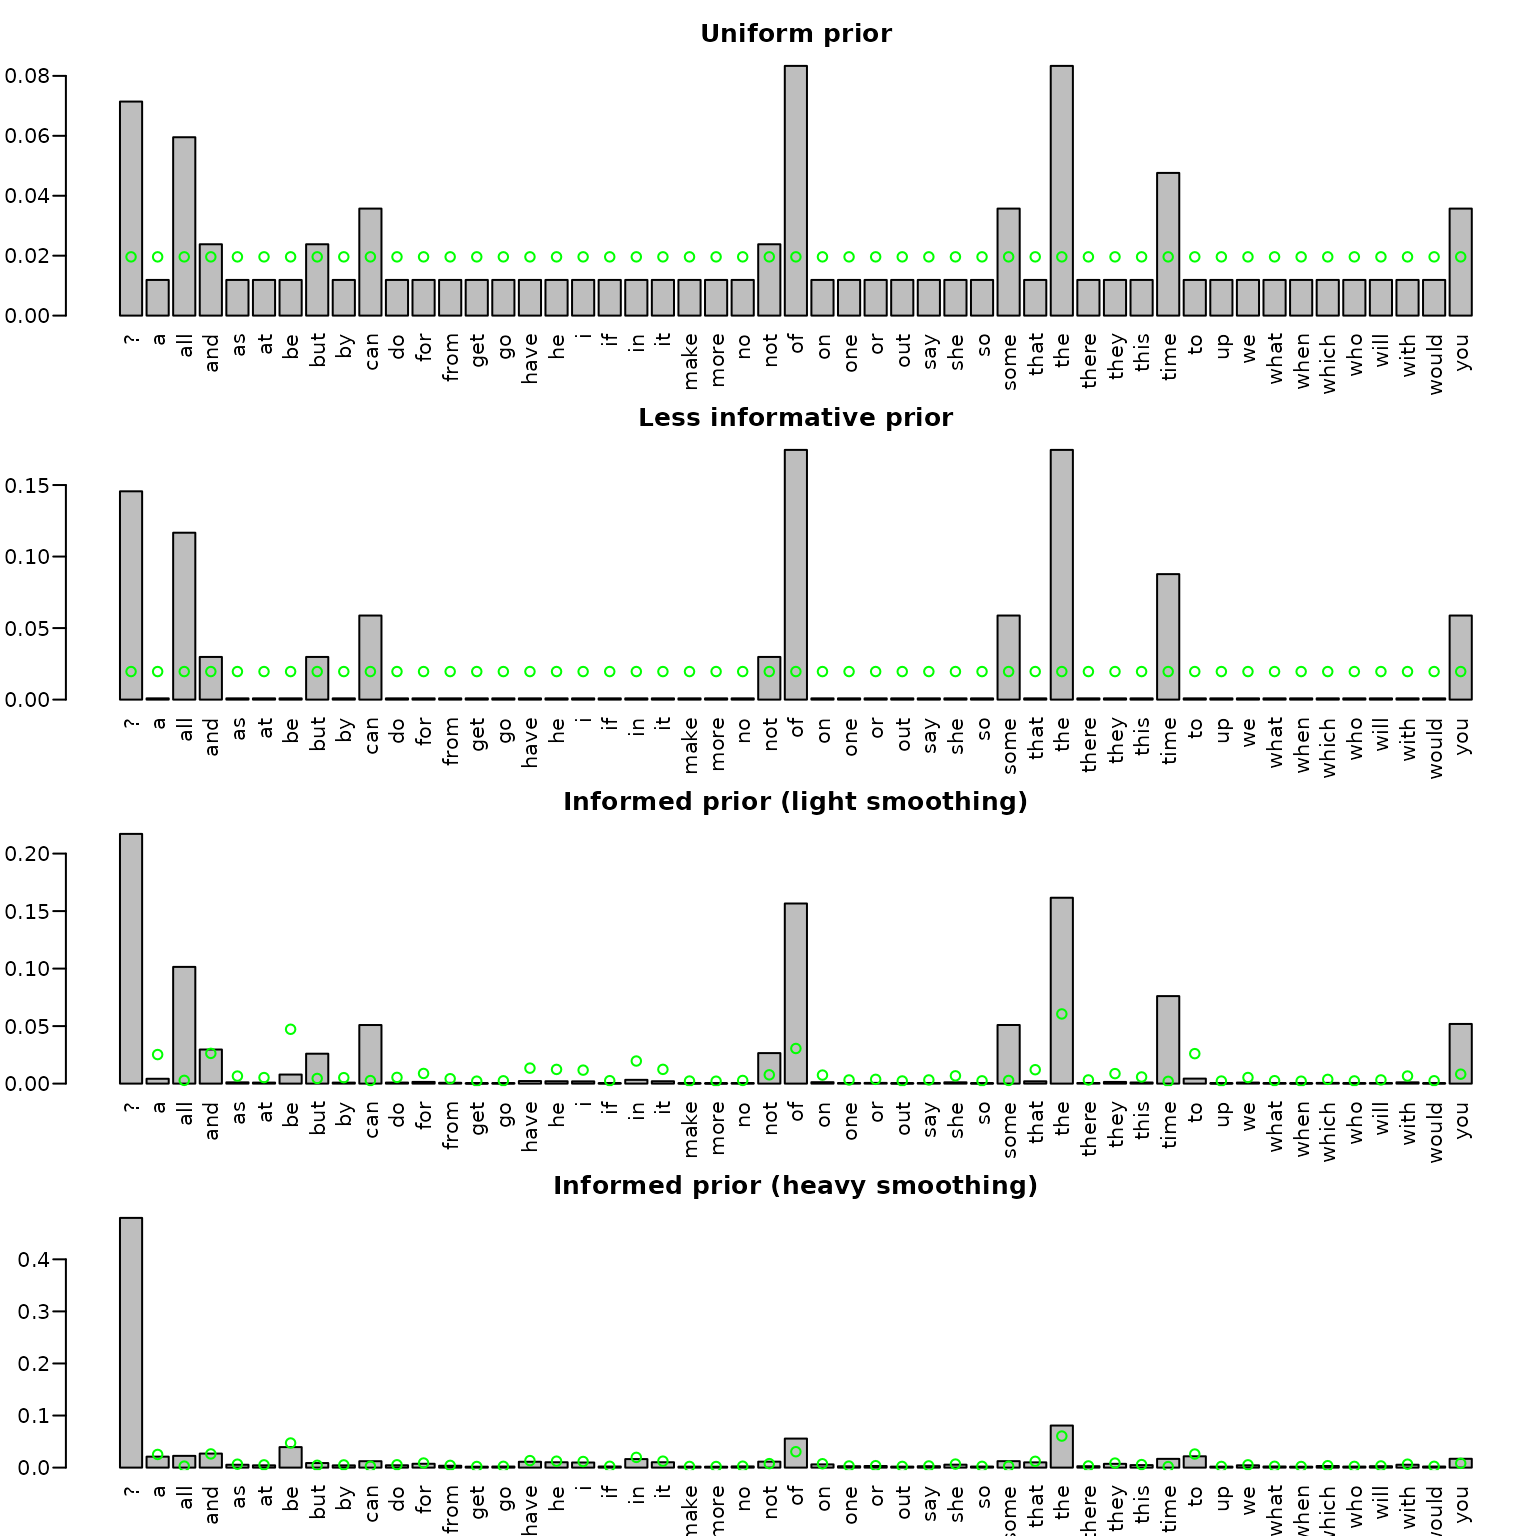
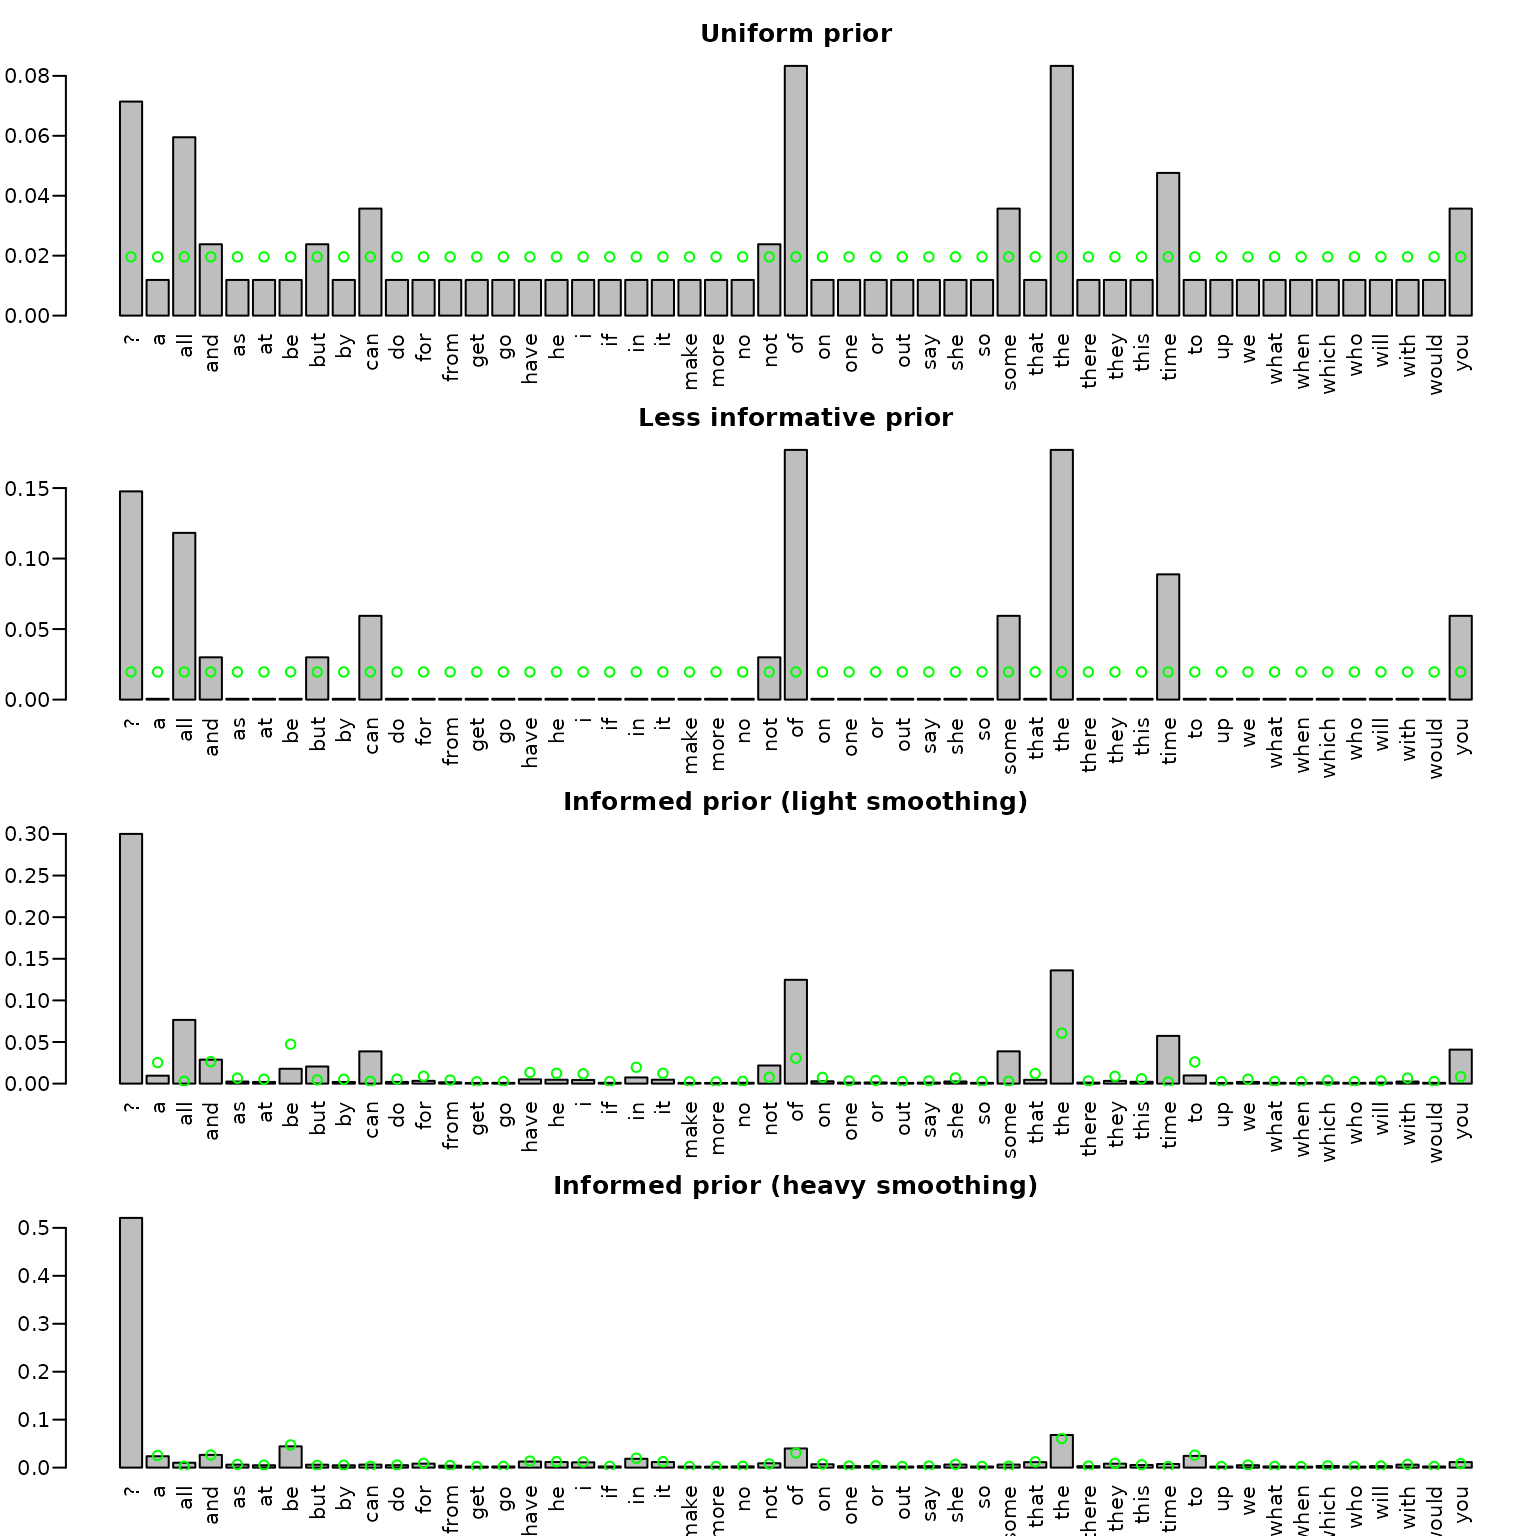
Deploying to gh-pages from @ gregorkastner/BayesianLearningCode@1c70b4c8e4790e24a084b9ac7d3ef878a7b2cf5a 🚀

diff --git a/articles/Chapter03.html b/articles/Chapter03.html
@@ -374,7 +374,8 @@ This can be very easily implemented by merging the universe and the
 data, and simply counting the resulting frequencies.</p>
 <div class="sourceCode" id="cb10"><pre class="downlit sourceCode r">
 <code class="sourceCode R"><span><span class="va">merged</span> <span class="op">&lt;-</span> <span class="fu"><a href="https://rdrr.io/r/base/c.html" class="external-link">c</a></span><span class="op">(</span><span class="va">universe</span>, <span class="va">dat</span><span class="op">)</span></span>
-<span><span class="va">post_uniform_unnormalized</span> <span class="op">&lt;-</span> <span class="fu"><a href="https://rdrr.io/r/base/table.html" class="external-link">table</a></span><span class="op">(</span><span class="va">merged</span><span class="op">)</span></span>
+<span><span class="va">counts</span> <span class="op">&lt;-</span> <span class="fu"><a href="https://rdrr.io/r/base/table.html" class="external-link">table</a></span><span class="op">(</span><span class="va">merged</span><span class="op">)</span> <span class="op">-</span> <span class="fl">1</span></span>
+<span><span class="va">post_uniform_unnormalized</span> <span class="op">&lt;-</span> <span class="va">counts</span> <span class="op">+</span> <span class="fl">1</span></span>
 <span><span class="va">post_uniform</span> <span class="op">&lt;-</span> <span class="va">post_uniform_unnormalized</span> <span class="op">/</span> <span class="fu"><a href="https://rdrr.io/r/base/sum.html" class="external-link">sum</a></span><span class="op">(</span><span class="va">post_uniform_unnormalized</span><span class="op">)</span></span></code></pre></div>
 </div>
 <div class="section level4">
@@ -386,16 +387,14 @@ rescale it to, e.g., 1 pseudo-observation. Then, the posterior
 expectation is
 <math display="block" xmlns="http://www.w3.org/1998/Math/MathML"><semantics><mrow><mi>E</mi><mrow><mo stretchy="true" form="prefix">(</mo><msub><mi>η</mi><mi>k</mi></msub><mo stretchy="false" form="prefix">|</mo><mi>𝐲</mi><mo stretchy="true" form="postfix">)</mo></mrow><mo>=</mo><mfrac><mrow><mn>1</mn><mi>/</mi><mn>51</mn><mo>+</mo><msub><mi>N</mi><mi>k</mi></msub></mrow><mrow><mn>1</mn><mo>+</mo><mi>N</mi></mrow></mfrac><mo>,</mo><mspace width="1.0em"></mspace><mi>k</mi><mo>=</mo><mn>1</mn><mo>,</mo><mi>…</mi><mo>,</mo><mn>51</mn><mi>.</mi></mrow><annotation encoding="application/x-tex">
 E(\eta_k|\boldsymbol{y}) = \frac{1/51+N_k}{1 + N}, \quad k=1,\ldots,51.
-</annotation></semantics></math> To compute this expectation, we can
-re-use the unnormalized posterior from above by first subtracting the
-old pseudo-counts to retain the data, and then adding the new
-pseudo-counts
+</annotation></semantics></math> To compute this expectation we simply
+add counts and the new pseudo-counts
 <math display="inline" xmlns="http://www.w3.org/1998/Math/MathML"><semantics><mrow><msub><mi>γ</mi><mrow><mn>0</mn><mo>,</mo><mn>1</mn></mrow></msub><mo>,</mo><mo>=</mo><msub><mi>γ</mi><mrow><mn>0</mn><mo>,</mo><mn>2</mn></mrow></msub><mo>=</mo><mi>…</mi><mo>=</mo><msub><mi>γ</mi><mrow><mn>0</mn><mo>,</mo><mi>K</mi></mrow></msub><mo>=</mo><mn>1</mn><mi>/</mi><mi>K</mi></mrow><annotation encoding="application/x-tex">\gamma_{0,1}, = \gamma_{0,2} = \dots = \gamma_{0,K} = 1/K</annotation></semantics></math>.</p>
 <div class="sourceCode" id="cb11"><pre class="downlit sourceCode r">
-<code class="sourceCode R"><span><span class="va">N</span> <span class="op">&lt;-</span> <span class="fu"><a href="https://rdrr.io/r/base/length.html" class="external-link">length</a></span><span class="op">(</span><span class="va">dat</span><span class="op">)</span></span>
+<code class="sourceCode R"><span><span class="va">K</span> <span class="op">&lt;-</span> <span class="fu"><a href="https://rdrr.io/r/base/length.html" class="external-link">length</a></span><span class="op">(</span><span class="va">universe</span><span class="op">)</span></span>
 <span><span class="va">N0</span> <span class="op">&lt;-</span> <span class="fl">1</span></span>
-<span><span class="va">gamma0</span> <span class="op">&lt;-</span> <span class="fu"><a href="https://rdrr.io/r/base/rep.html" class="external-link">rep</a></span><span class="op">(</span><span class="va">N0</span> <span class="op">/</span> <span class="va">N</span>, <span class="fu"><a href="https://rdrr.io/r/base/length.html" class="external-link">length</a></span><span class="op">(</span><span class="va">universe</span><span class="op">)</span><span class="op">)</span></span>
-<span><span class="va">post_lessinformative_unnormalized</span> <span class="op">&lt;-</span> <span class="va">post_uniform_unnormalized</span> <span class="op">-</span> <span class="fl">1</span> <span class="op">+</span> <span class="va">gamma0</span></span>
+<span><span class="va">gamma0</span> <span class="op">&lt;-</span> <span class="fu"><a href="https://rdrr.io/r/base/rep.html" class="external-link">rep</a></span><span class="op">(</span><span class="va">N0</span> <span class="op">/</span> <span class="va">K</span>, <span class="fu"><a href="https://rdrr.io/r/base/length.html" class="external-link">length</a></span><span class="op">(</span><span class="va">universe</span><span class="op">)</span><span class="op">)</span></span>
+<span><span class="va">post_lessinformative_unnormalized</span> <span class="op">&lt;-</span>  <span class="va">counts</span> <span class="op">+</span> <span class="va">gamma0</span></span>
 <span><span class="va">post_lessinformative</span> <span class="op">&lt;-</span></span>
 <span>  <span class="va">post_lessinformative_unnormalized</span> <span class="op">/</span> <span class="fu"><a href="https://rdrr.io/r/base/sum.html" class="external-link">sum</a></span><span class="op">(</span><span class="va">post_lessinformative_unnormalized</span><span class="op">)</span></span></code></pre></div>
 <p>Alternatively, we could use a loop.</p>
@@ -434,7 +433,7 @@ the new pseudo-counts.</p>
 <code class="sourceCode R"><span><span class="va">N0</span> <span class="op">&lt;-</span> <span class="va">N</span><span class="op">/</span><span class="fl">5</span></span>
 <span><span class="va">gamma0</span> <span class="op">&lt;-</span> <span class="va">N0</span> <span class="op">*</span> <span class="va">freq</span> <span class="op">/</span> <span class="fl">10</span><span class="op">^</span><span class="fl">8</span></span>
 <span></span>
-<span><span class="va">post_informed_unnormalized</span> <span class="op">&lt;-</span> <span class="va">post_uniform_unnormalized</span> <span class="op">-</span> <span class="fl">1</span> <span class="op">+</span> <span class="va">gamma0</span></span>
+<span><span class="va">post_informed_unnormalized</span> <span class="op">&lt;-</span> <span class="va">counts</span> <span class="op">+</span> <span class="va">gamma0</span></span>
 <span><span class="va">post_informed</span> <span class="op">&lt;-</span> <span class="va">post_informed_unnormalized</span> <span class="op">/</span> <span class="fu"><a href="https://rdrr.io/r/base/sum.html" class="external-link">sum</a></span><span class="op">(</span><span class="va">post_informed_unnormalized</span><span class="op">)</span></span></code></pre></div>
 <p>Alternatively, we might want to prefer heavier smoothing with respect
 to the base rate (here, the overall word distribution in the English
@@ -445,7 +444,7 @@ number of pseudo-counts
 <code class="sourceCode R"><span><span class="va">N0</span> <span class="op">&lt;-</span> <span class="fl">5</span><span class="op">*</span><span class="va">N</span></span>
 <span><span class="va">gamma0</span> <span class="op">&lt;-</span> <span class="va">N0</span> <span class="op">*</span> <span class="va">freq</span> <span class="op">/</span> <span class="fl">10</span><span class="op">^</span><span class="fl">8</span></span>
 <span></span>
-<span><span class="va">post_informed_unnormalized2</span> <span class="op">&lt;-</span> <span class="va">post_uniform_unnormalized</span> <span class="op">-</span> <span class="fl">1</span> <span class="op">+</span> <span class="va">gamma0</span></span>
+<span><span class="va">post_informed_unnormalized2</span> <span class="op">&lt;-</span> <span class="va">counts</span> <span class="op">+</span> <span class="va">gamma0</span></span>
 <span><span class="va">post_informed2</span> <span class="op">&lt;-</span> <span class="va">post_informed_unnormalized2</span> <span class="op">/</span> <span class="fu"><a href="https://rdrr.io/r/base/sum.html" class="external-link">sum</a></span><span class="op">(</span><span class="va">post_informed_unnormalized2</span><span class="op">)</span></span></code></pre></div>
 </div>
 <div class="section level4">
